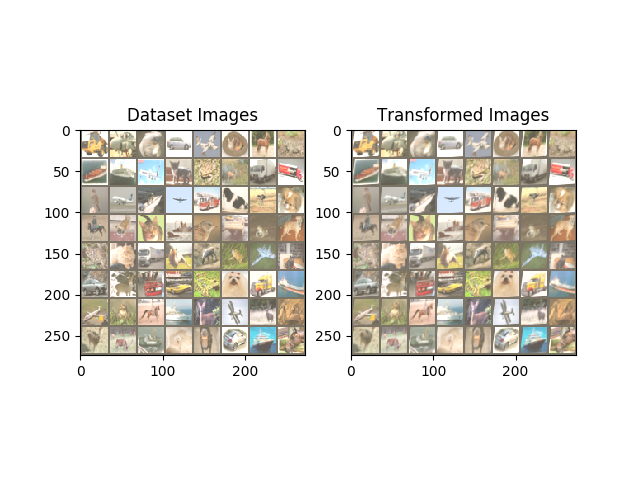
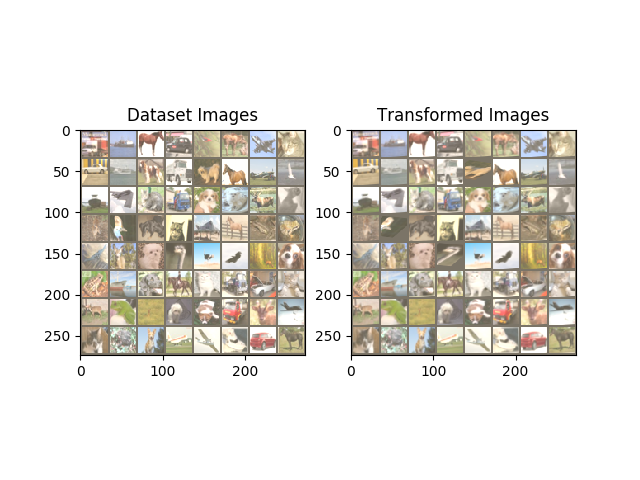
more epochs

Changed region(s): [[0.5312, 0.25, 0.9062, 0.75], [0.125, 0.25, 0.5, 0.75]]

diff --git a/spatial_transformer_tutorial.py b/spatial_transformer_tutorial.py
@@ -183,7 +183,7 @@ def train(epoch):
                 MSE = torch.sum((identity_tensor[0:16] - transformer_matrix) ** 2)
 
             perception_loss = 0.2 / (1 + MSE ** 2)
-            print("perception loss", perception_loss)
+            #print("perception loss", perception_loss)
             loss = perception_loss - discriminator_loss
             loss.backward()
             optimizer.step()
@@ -249,7 +249,7 @@ def visualize_stn():
         axarr[1].set_title("Transformed Images")
 
 
-for epoch in range(1, 20 + 1):
+for epoch in range(1, 100):
     train(epoch)
     # Visualize the STN transformation on some input batch
     visualize_stn()
